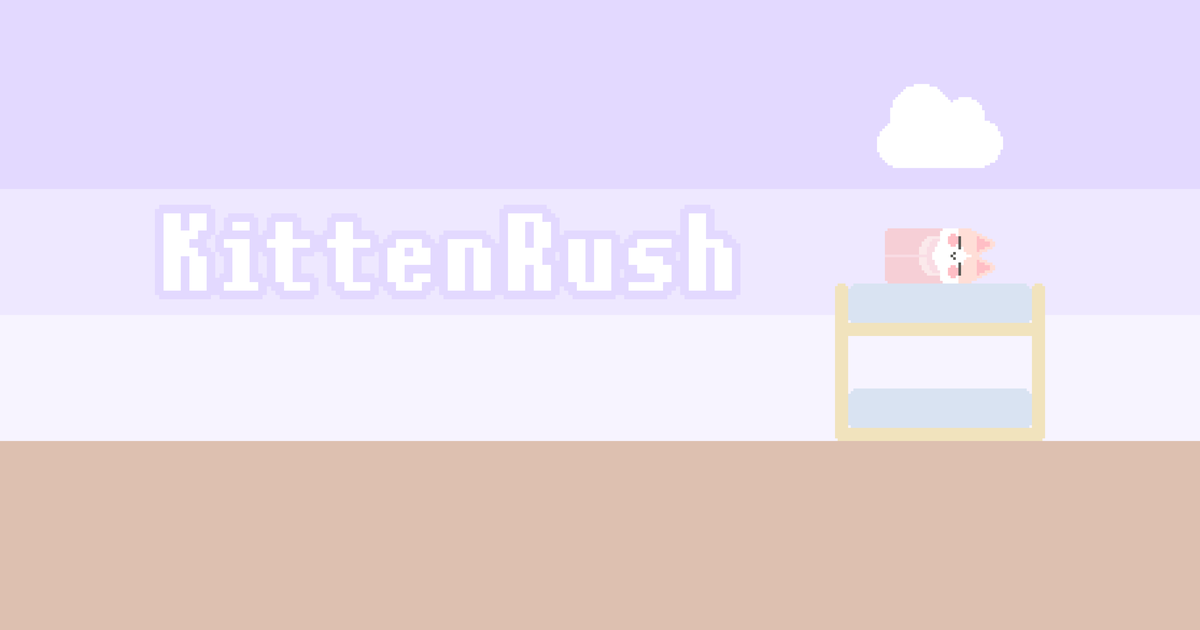
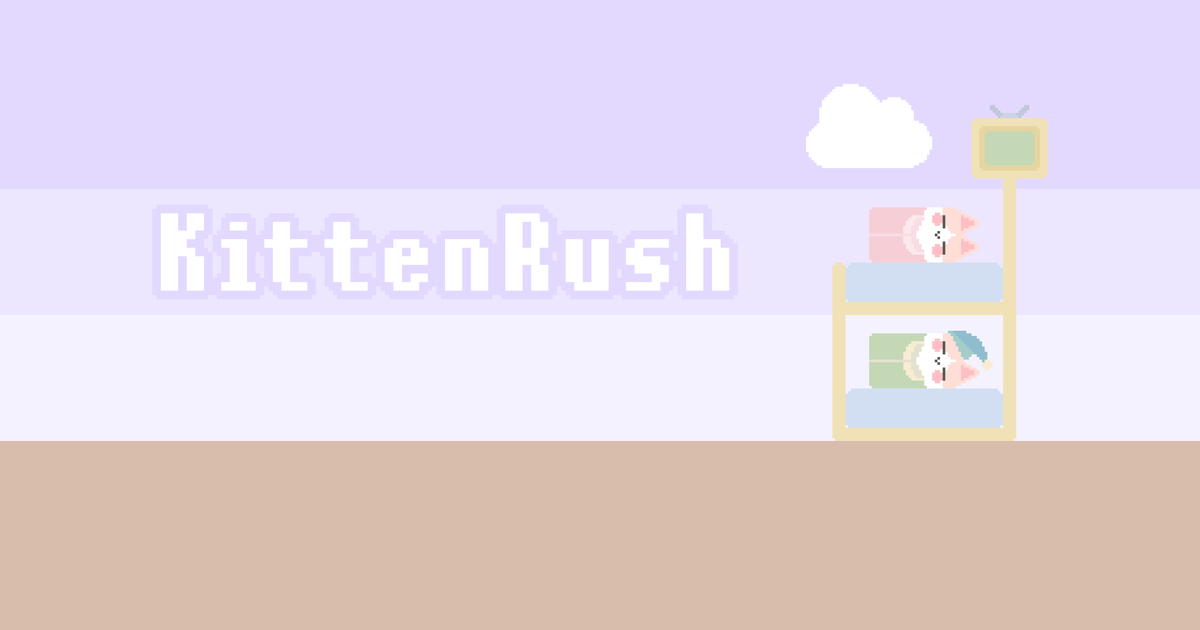
OG 이미지를 Nightcap 시작 화면으로 교체 — 메신저 캐시 회피용 버전 쿼리 추가

diff --git a/index.html b/index.html
@@ -12,14 +12,14 @@
     <meta property="og:title" content="KittenRush">
     <meta property="og:description" content="A pixel-art mini-game rush! 🐾">
     <meta property="og:url" content="https://kittenlab-dev.github.io/KittenRushDownload/">
-    <meta property="og:image" content="https://kittenlab-dev.github.io/KittenRushDownload/og.png">
+    <meta property="og:image" content="https://kittenlab-dev.github.io/KittenRushDownload/og.png?v=20261106">
     <meta property="og:image:width" content="1200">
     <meta property="og:image:height" content="630">
     <meta property="og:image:alt" content="KittenRush">
     <meta name="twitter:card" content="summary_large_image">
     <meta name="twitter:title" content="KittenRush">
     <meta name="twitter:description" content="A pixel-art mini-game rush! 🐾">
-    <meta name="twitter:image" content="https://kittenlab-dev.github.io/KittenRushDownload/og.png">
+    <meta name="twitter:image" content="https://kittenlab-dev.github.io/KittenRushDownload/og.png?v=20261106">
     <script>
         // Play 는 승인 후 자동 공개, App Store 는 심사 승인 시 이 ID 로 열린다.
         const PLAY_STORE_URL = "https://play.google.com/store/apps/details?id=com.kittenlab.kittenrush";
